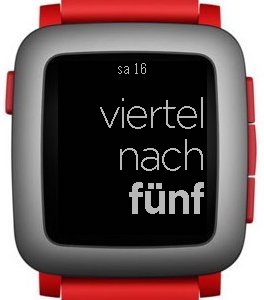
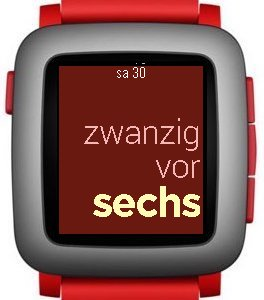
Add color theme samples to readme file

diff --git a/README.md b/README.md
@@ -2,12 +2,17 @@
 
 This is is a watchface for the Pebble smartwatch that shows the current time in German.
 
-![Pebble Time photo](photo.jpg)
 ![Pebble Time mockup](mockup1.jpg)
 ![Pebble Time Steel mockup](mockup2.jpg)
 ![Pebble Steel mockup](mockup3.jpg)
 
 The time is shown in colloquial, "fuzzy" mode: We say "Viertel nach 10" when it's only 10:12, or already 10:17.
+
+Several color themes are available (selected with the configuration dialog in your phone's Pebble app). More to be added on request, or when I get more shirts.
+
+![Blue theme](blue.jpg)
+![Red theme](red.jpg)
+![Gray theme](gray.jpg)
 
 A battery icon is displayed in the upper left corner when charge drops to 10 % or below. A Bluetooth icon is displayed in the upper right corner when the Bluetooth connection is lost. To give the watchface a clean, minimalistic look, both icons are shown only when necessary.
 
@@ -17,6 +22,7 @@ The watchface is based on https://github.com/n3v3r001/n3v3rstextone, with the ov
 
 * Add fuzzy mode (the original would give the exact time, e. g. "sieben nach halb elf")
 * Align text to the right (since I wear the watch on the left wrist, and the left side of the watch is frequently covered by the shirt sleeve)
+* Add color themes for blue, red, and white background
 * Show battery icon in red when < 10 %
 * Show battery icon only when < 10 %
 * Show Bluetooth icon only when offline
@@ -28,5 +34,4 @@ To install the watchface on your Pebble, use the Pebble SDK as described on http
 Planned future changes:
 
 * Configuration options to enable/disable the changes I made to the original
-* Configurable colors
 * Make it available in the Pebble store
